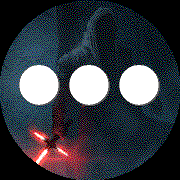
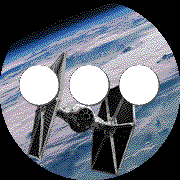
050116

diff --git a/src/js/pebble-js-app.js b/src/js/pebble-js-app.js
@@ -196,7 +196,7 @@ function locationError(err) {
 }
 
 Pebble.addEventListener('showConfiguration', function(e) {
-  var uri = 'http://www.themapman.com/pebblewatch/sentri.html?' +
+  var uri = 'http://www.themapman.com/pebblewatch/themes2.html?' +
     'use_gps=' + encodeURIComponent(options['use_gps']) +
     '&location=' + encodeURIComponent(options['location']) +
     '&units=' + encodeURIComponent(options['units']) +
@@ -225,6 +225,6 @@ Pebble.addEventListener("ready", function(e) {
   setInterval(function() {
     //console.log("timer fired");
     updateWeather();
-  }, 180000); // 30 minutes
+  }, 360000); // 60 minutes
   console.log(e.type);
 });

diff --git a/src/themes.c b/src/themes.c
@@ -74,7 +74,7 @@ TextLayer *temp_layer;
 TextLayer *condition_layer;
 
 static GFont time_font;
-static GFont date_font;
+//static GFont date_font;
 static GFont temp_font;
 
 int cur_day = -1;
@@ -120,11 +120,11 @@ void theme_choice() {
  				background_image = gbitmap_create_with_resource(RESOURCE_ID_IMAGE_BG10);
          } else if(s_random == 5){
  				background_image = gbitmap_create_with_resource(RESOURCE_ID_IMAGE_BG30);
+         } else if(s_random == 6){
+ 				background_image = gbitmap_create_with_resource(RESOURCE_ID_IMAGE_BG34);
          } 
 			
-		else if(s_random == 6){
- 				background_image = gbitmap_create_with_resource(RESOURCE_ID_IMAGE_BG34);
-         } /*else if(s_random == 7){
+			/*else if(s_random == 7){
  				background_image = gbitmap_create_with_resource(RESOURCE_ID_IMAGE_BG35);
          }
 		 */
@@ -169,15 +169,13 @@ void theme_choice() {
  				background_image = gbitmap_create_with_resource(RESOURCE_ID_IMAGE_BG27);
          } else if(s_random == 5){
  				background_image = gbitmap_create_with_resource(RESOURCE_ID_IMAGE_BG31);
+         } 	else if(s_random == 6){
+ 				background_image = gbitmap_create_with_resource(RESOURCE_ID_IMAGE_BG36);
          } 
 			
-		
-			else if(s_random == 6){
- 				background_image = gbitmap_create_with_resource(RESOURCE_ID_IMAGE_BG36);
-         } /* else if(s_random == 7){
+			/* else if(s_random == 7){
  				background_image = gbitmap_create_with_resource(RESOURCE_ID_IMAGE_BG37);
-         } else if(s_random == 8){
- 				background_image = gbitmap_create_with_resource(RESOURCE_ID_IMAGE_BG38);
+
          }*/
 					
 	   if (background_image != NULL) {
@@ -219,11 +217,13 @@ void theme_choice() {
  				background_image = gbitmap_create_with_resource(RESOURCE_ID_IMAGE_BG17);
          } else if(s_random == 5){
  				background_image = gbitmap_create_with_resource(RESOURCE_ID_IMAGE_BG24);
-         }
-			
-			else if(s_random == 6){
+         } else if(s_random == 6){
  				background_image = gbitmap_create_with_resource(RESOURCE_ID_IMAGE_BG39);
          } 
+			/* 
+			} else if(s_random == 7){
+ 				background_image = gbitmap_create_with_resource(RESOURCE_ID_IMAGE_BG38);
+				*/
 			
 	   if (background_image != NULL) {
 		bitmap_layer_set_bitmap(background_layer, background_image);
@@ -234,14 +234,14 @@ void theme_choice() {
 	    break;
 		
 		case 3:  // shapes
-		if(s_random == 6){
+		if(s_random == 7){
 			s_random = 0;
 		} else {
 
-			temp_random = rand() % 6;
+			temp_random = rand() % 7;
 
 			while(temp_random == s_random){
-			    temp_random = rand() % 6;
+			    temp_random = rand() % 7;
 		    }
 
 		    s_random = temp_random;
@@ -261,9 +261,15 @@ void theme_choice() {
  				background_image = gbitmap_create_with_resource(RESOURCE_ID_IMAGE_BG23);
          } else if(s_random == 4){
  				background_image = gbitmap_create_with_resource(RESOURCE_ID_IMAGE_BG32);
-         }else if(s_random == 5){
+         } else if(s_random == 5){
  				background_image = gbitmap_create_with_resource(RESOURCE_ID_IMAGE_BG33);
-         }
+         } else if(s_random == 6){
+ 				background_image = gbitmap_create_with_resource(RESOURCE_ID_IMAGE_BG40);
+         } 
+				/* 
+			} else if(s_random == 7){
+ 				background_image = gbitmap_create_with_resource(RESOURCE_ID_IMAGE_BG38);
+				*/
 			
 	   if (background_image != NULL) {
 		bitmap_layer_set_bitmap(background_layer, background_image);
@@ -477,7 +483,7 @@ static void window_load(Window *window) {
 	// resources
 
 	time_font = fonts_load_custom_font(resource_get_handle(RESOURCE_ID_FONT_REGULAR_44));
-    date_font = fonts_load_custom_font(resource_get_handle(RESOURCE_ID_FONT_CUSTOM_16));
+  //  date_font = fonts_load_custom_font(resource_get_handle(RESOURCE_ID_FONT_CUSTOM_16));
     temp_font = fonts_load_custom_font(resource_get_handle(RESOURCE_ID_FONT_CUSTOM_17));
 	
     // layer position and alignment
@@ -501,11 +507,11 @@ static void window_load(Window *window) {
 #endif
 	
     text_layer_set_background_color(layer_date_text, GColorClear);
-    text_layer_set_font(layer_date_text, date_font);
+    text_layer_set_font(layer_date_text, temp_font);
     text_layer_set_background_color(layer_time_text, GColorClear);
     text_layer_set_font(layer_time_text, time_font);
     text_layer_set_background_color(layer_date_text2, GColorClear);
-    text_layer_set_font(layer_date_text2, date_font);
+    text_layer_set_font(layer_date_text2, temp_font);
     text_layer_set_background_color(layer_time_text2, GColorClear);
     text_layer_set_font(layer_time_text2, time_font);
 	
@@ -609,7 +615,7 @@ static void window_unload(Window *window) {
   text_layer_destroy( condition_layer );
 	
   fonts_unload_custom_font(time_font);
-  fonts_unload_custom_font(date_font);
+//  fonts_unload_custom_font(date_font);
   fonts_unload_custom_font(temp_font);
 	
   layer_remove_from_parent(window_layer);
